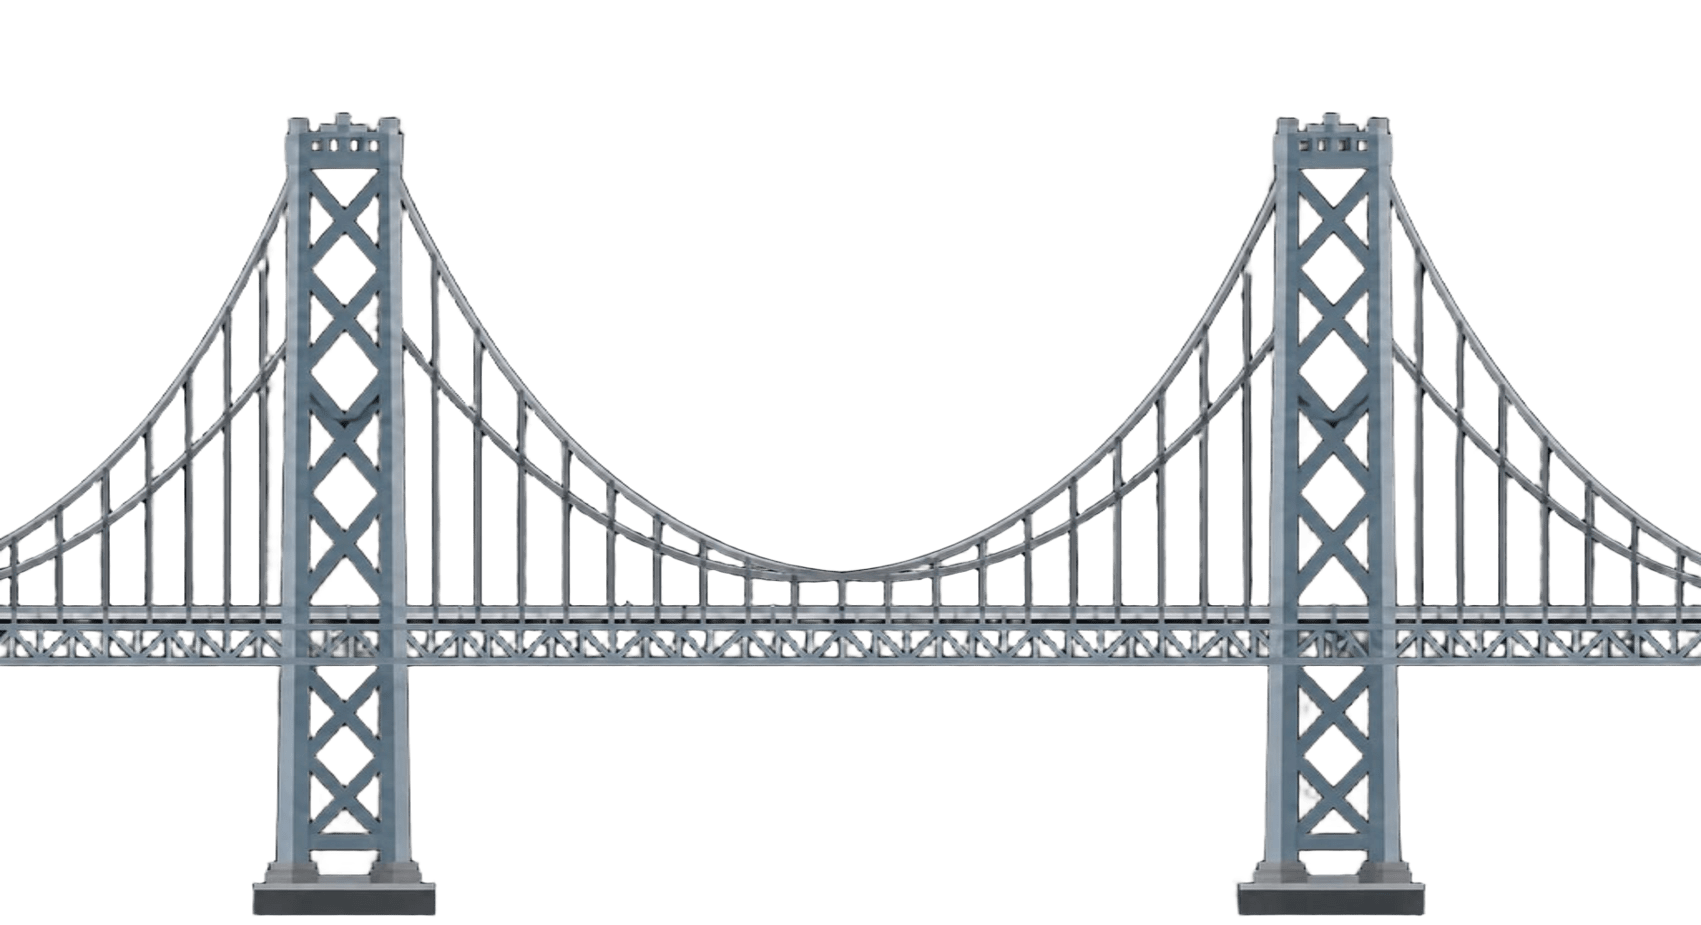
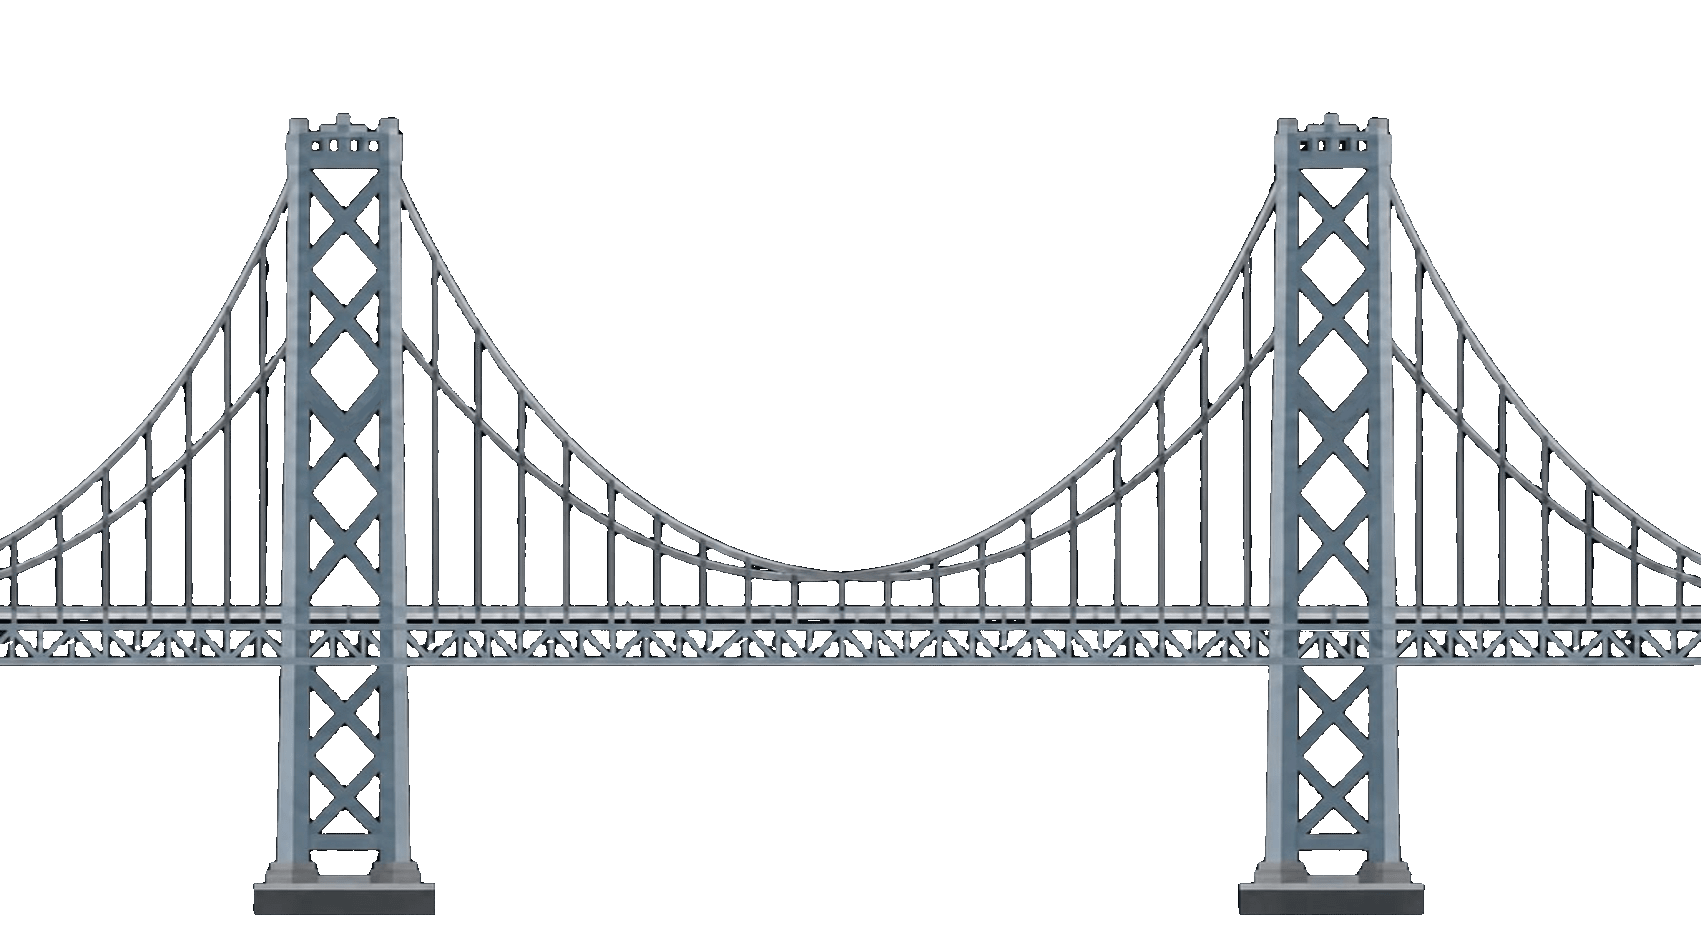
Change bay lights animation, tie lights/fog to theme

Changed region(s): [[0.0, 0.1211, 1.0, 0.9081], [0.1869, 0.8173, 0.2493, 0.9081], [0.2181, 0.9081, 0.2493, 0.9384]]

diff --git a/src/app/home-page/home-page.component.scss b/src/app/home-page/home-page.component.scss
@@ -111,7 +111,7 @@
 }
 
 .bridge-vignette {
-  display: none;
+  display: var(--displayFog);
   position: absolute;
   top: 0;
   left: 0;
@@ -129,7 +129,7 @@
 }
 
 .fog-layer {
-  display: none;
+  display: var(--displayFog);
   position: absolute;
   width: 80px;
   height: 30px;
@@ -187,6 +187,7 @@
 .light-cable {
   width: 2px;
   position: relative;
+  display: var(--displayBayLights);
   
   &::before {
     content: '';
@@ -204,16 +205,80 @@
       transparent 100%
     );
     box-shadow: 0 0 12px rgba(255, 255, 255, 0.8);
-    animation: cable-glow 3s ease-in-out infinite;
+    animation: cable-glow var(--cable-duration, 3s) ease-in-out infinite;
   }
 }
 @keyframes cable-glow {
   0%, 100% {
-    opacity: 0.4;
-    box-shadow: 0 0 4px rgba(255, 255, 255, 0.6), 0 0 8px rgba(255, 255, 255, 0.4);
+    opacity: 0.6;
+    box-shadow: 0 0 4px rgba(255, 255, 255, 0.8), 0 0 8px rgba(255, 255, 255, 0.6);
   }
   50% {
     opacity: 1;
-    box-shadow: 0 0 12px rgba(255, 255, 255, 0.8), 0 0 20px rgba(255, 255, 255, 0.6);
+    box-shadow: 0 0 12px rgba(255, 255, 255, 1), 0 0 20px rgba(255, 255, 255, 0.8);
+  }
+}
+
+.red-light {
+  display: var(--displayBayLights);
+  position: absolute;
+  width: 4.3px;
+  height: 2px;
+  pointer-events: none;
+  transform: translateX(-50%);
+  opacity: 0.8;
+  left: 50%;
+  top: 22px;
+  z-index: 11;
+  animation: red-blink ease-in-out infinite;
+  animation-duration: 5s;
+}
+
+.red-light::before {
+  display: var(--displayBayLights);
+  content: '';
+  position: absolute;
+  width: 25px;
+  height: 25px;
+  filter: blur(7px);
+  background: radial-gradient(circle, rgba(255, 68, 68, 0.8), transparent);
+  top: 50%;
+  left: 50%;
+  transform: translate(-50%, -50%);
+  pointer-events: none;
+  z-index: -1;
+  animation: red-blink-glow ease-in-out infinite;
+  animation-duration: 5s;
+}
+
+.red-light-1 {
+  margin-left: -149px;
+}
+
+.red-light-2 {
+  margin-left: 141.38px;
+}
+
+@keyframes red-blink {
+  0%, 75% {
+    background-color: #ff4444;
+  }
+  80% {
+    background-color: red;
+  }
+  90%, 100% {
+    background-color: #ff4444;
+  }
+}
+
+@keyframes red-blink-glow {
+  0%, 75% {
+    opacity: 0;
+  }
+  80% {
+    opacity: 1;
+  }
+  90%, 100% {
+    opacity: 0;
   }
 }

diff --git a/src/app/home-page/home-page.component.html b/src/app/home-page/home-page.component.html
@@ -15,9 +15,14 @@
             [style.height.px]="cableData[$index].height"
             [style.marginTop.px]="cableData[$index].topMargin"
             [style.marginLeft.px]="cableData[$index].leftMargin"
+            [style.--cable-duration]="cableLightDurations[$index].duration"
           ></div>
         }
       </div>
+
+      <!-- Red blinking lights -->
+      <div class="red-light red-light-1"></div>
+      <div class="red-light red-light-2"></div>
 
       <!-- Fog Layers -->
       @for (fog of fogLayers; track fog; let last = $last) {

diff --git a/src/styles/_variables.scss b/src/styles/_variables.scss
@@ -48,6 +48,8 @@ $sky_gradient_two_dark: #1B2735;
   --visitedLinkColor: #{$secondary_light};
   --skyGradientOne: #{$sky_gradient_one_light};
   --skyGradientTwo: #{$sky_gradient_two_light};
+  --displayBayLights: none;
+  --displayFog: block;
 }
 
 // mixin that enables css variables in dark mode
@@ -68,4 +70,6 @@ $sky_gradient_two_dark: #1B2735;
   --visitedLinkColor: #{$secondary_dark};
   --skyGradientOne: #{$sky_gradient_one_dark};
   --skyGradientTwo: #{$sky_gradient_two_dark};
+  --displayBayLights: block;
+  --displayFog: none;
 }

diff --git a/src/app/home-page/home-page.component.ts b/src/app/home-page/home-page.component.ts
@@ -89,6 +89,11 @@ export class HomePageComponent {
     { height: 18, topMargin: 104, leftMargin: 11 },
   ]
 
+  // Render the light pulsing at different phases to more closely resemble the bay lights
+  cableLightDurations = this.cableData.map(() => ({
+    duration: `${(Math.random() * 3 + 5).toFixed(2)}s` // Random between 1s and 3s
+  }));
+
   fogLayers = Array.from({ length: this.NUM_FOG_CLOUDS }, (_, i) => ({
     left: `-${Math.floor(Math.random() * 300) + 100}px`,
     top: `${Math.floor(Math.random() * 140) + 10}px`,
